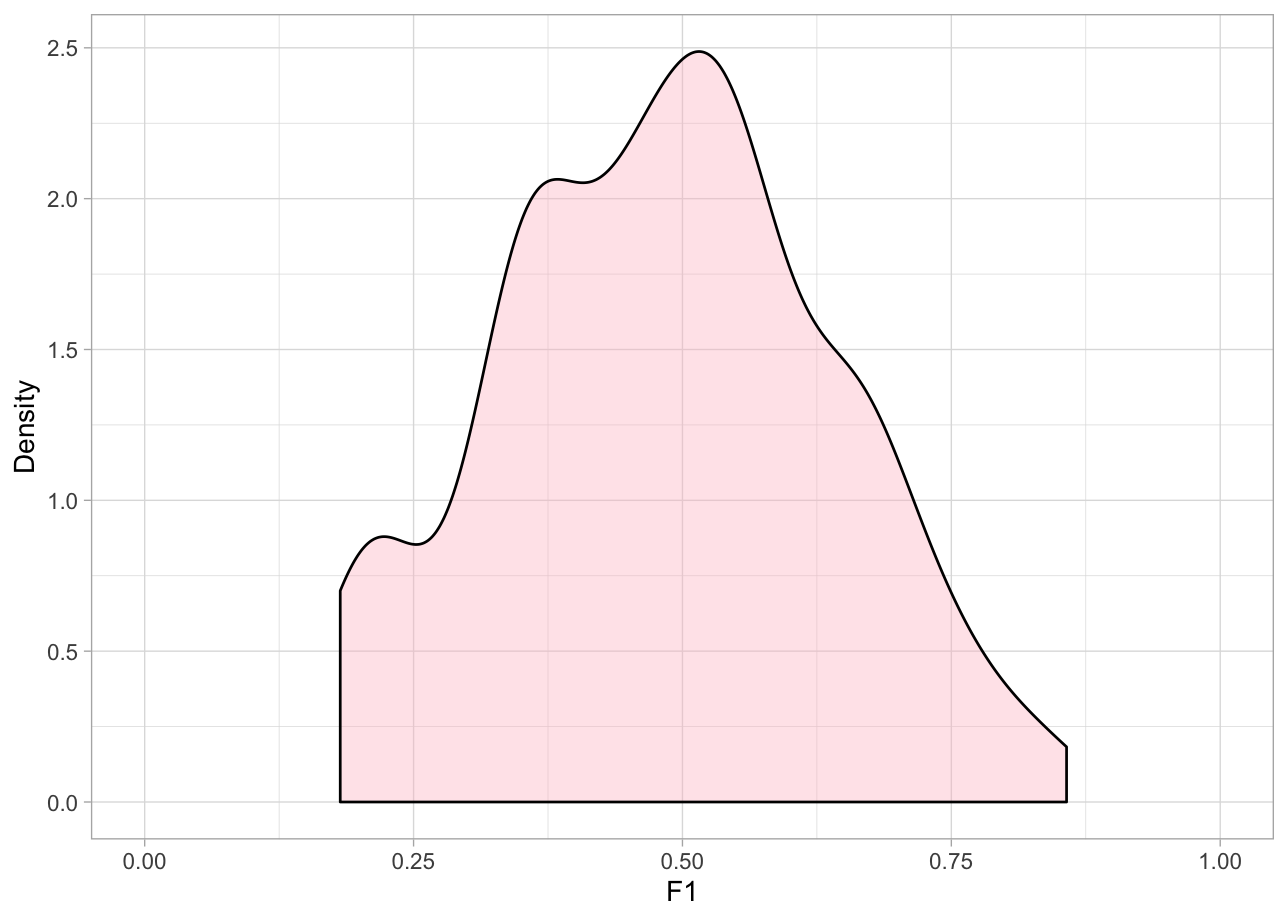
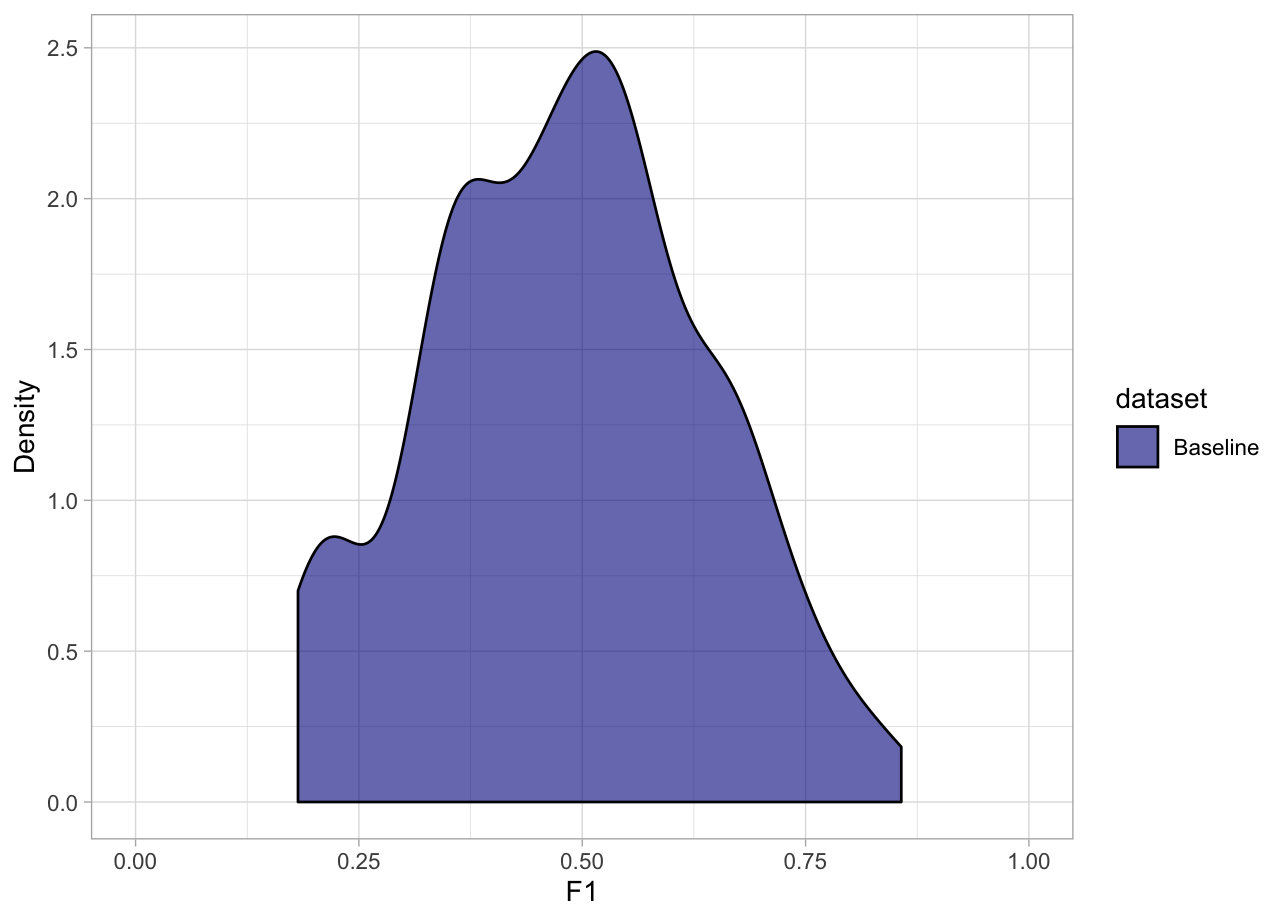
docs and plot_metric_density improvements

diff --git a/README.md b/README.md
@@ -936,7 +936,8 @@ Create the baseline evaluations:
 
 ``` r
 binomial_baseline <- baseline(test_data = test_set, n = 300, 
-         dependent_col = "diagnosis", family = "binomial")
+                              dependent_col = "diagnosis", 
+                              family = "binomial")
 
 binomial_baseline$summarized_metrics
 #> # A tibble: 10 x 15
@@ -992,7 +993,7 @@ binomial_baseline$random_evaluations
 #> #   Dependent <chr>
 ```
 
-We can plot the distribution of `F1` scores from the random evaluations:
+We can plot the distribution of `F1` scores from the random evaluations.
 
 ``` r
 # First, remove the NAs from the F1 column
@@ -1000,7 +1001,7 @@ random_evaluations <- binomial_baseline$random_evaluations
 random_evaluations <- random_evaluations[!is.na(random_evaluations$F1),]
 
 # Create density plot for F1
-plot_metric_density(data = random_evaluations, 
+plot_metric_density(baseline = random_evaluations, 
                     metric = "F1", xlim = c(0, 1))
 ```
 
@@ -1159,7 +1160,7 @@ gaussian_baseline$random_evaluations
 Plot the density plot for `RMSE`:
 
 ``` r
-plot_metric_density(data = gaussian_baseline$random_evaluations,
+plot_metric_density(baseline = gaussian_baseline$random_evaluations,
                     metric = "RMSE")
 ```
 
